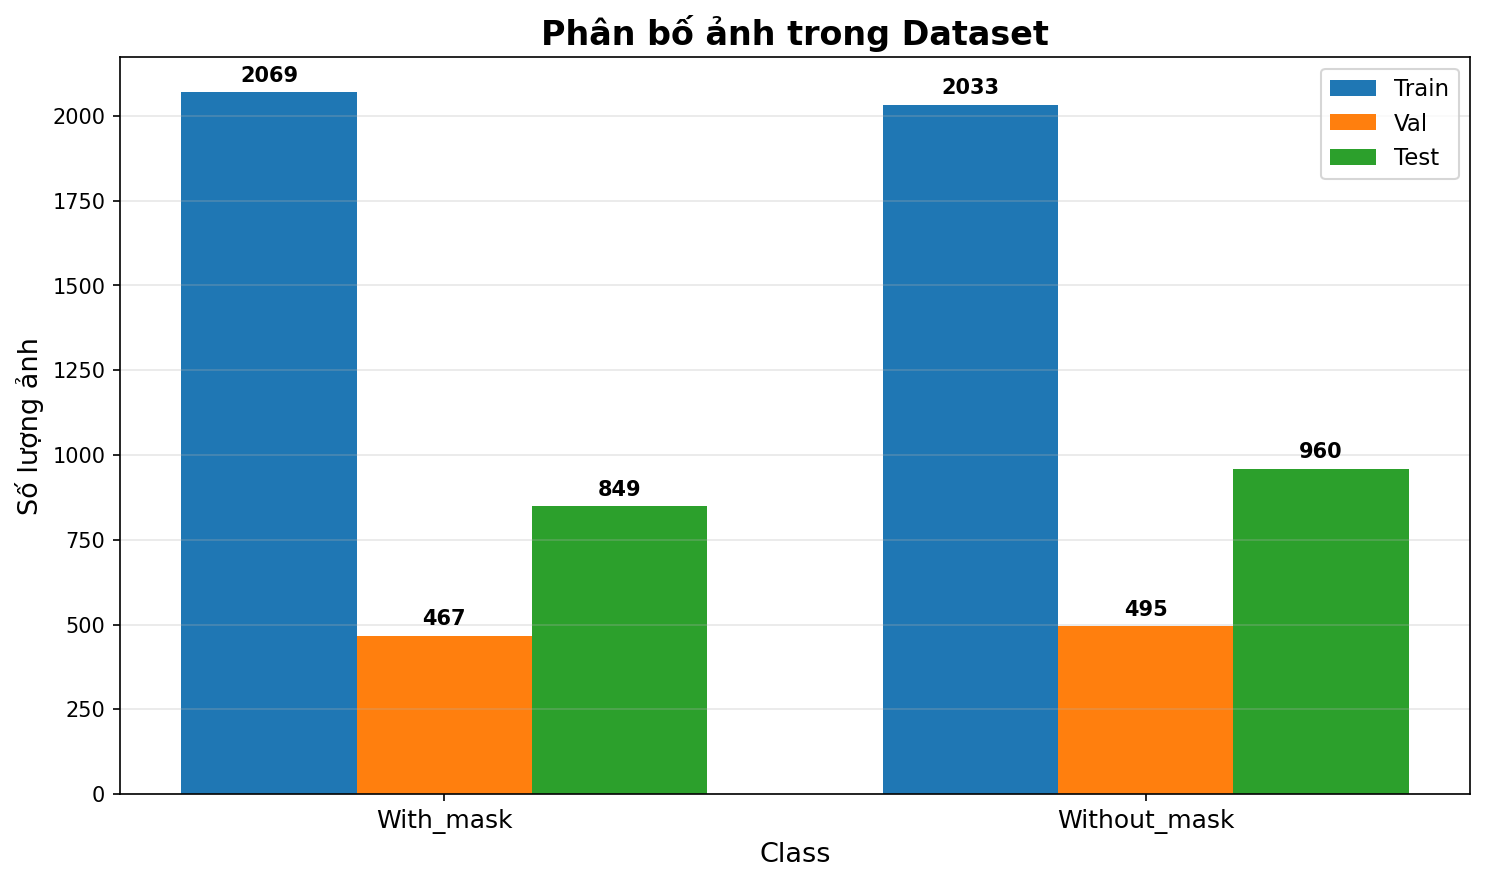
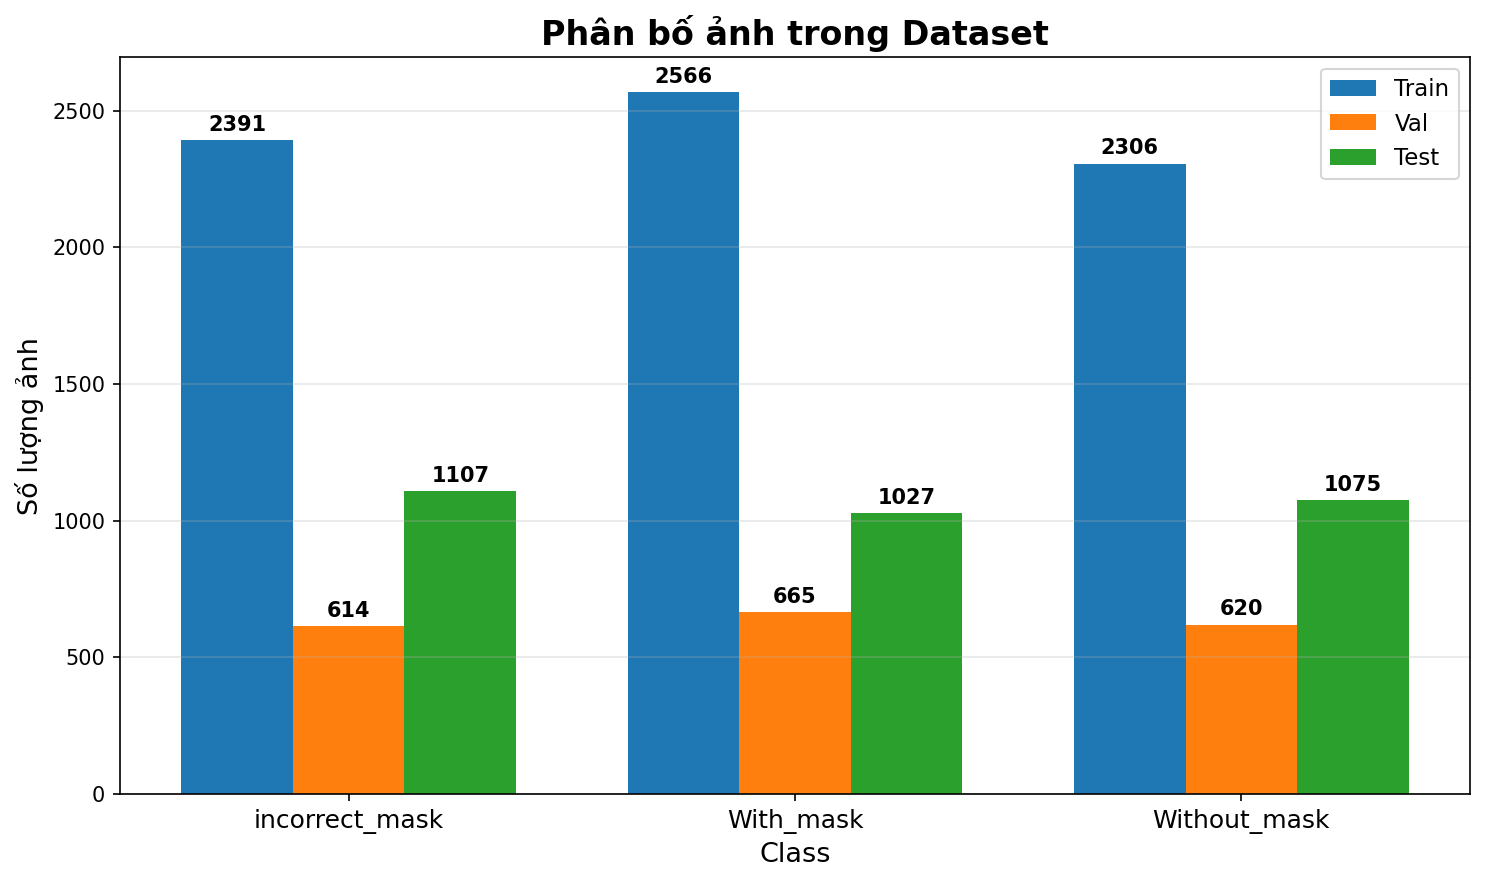
MediaPipe

diff --git a/src/realtime_detect.py b/src/realtime_detect.py
@@ -3,14 +3,17 @@ import sys
 import cv2
 import numpy as np
 from collections import deque
+from keras.models import load_model
 
 sys.path.append(os.path.dirname(os.path.dirname(os.path.abspath(__file__))))
 
 # =========================================================
 # TENSORFLOW
 # =========================================================
-import tensorflow as tf
-from tensorflow.keras.preprocessing.image import img_to_array
+import keras
+from keras.models import load_model
+from keras.preprocessing.image import img_to_array
+import mediapipe as mp
 
 # =========================================================
 # CONFIG
@@ -29,6 +32,7 @@ from src.config import (
     COLOR_MASK,
     COLOR_NO_MASK,
     COLOR_INCORRECT_MASK,
+    DETECTION_CONFIDENCE,
 )
 
 # =========================================================
@@ -87,22 +91,16 @@ def download_haarcascade():
 def init_realtime_resources():
 
     # =====================================================
-    # CASCADE
+    # MEDIAPIPE
     # =====================================================
-    if not download_haarcascade():
-        raise RuntimeError("Missing Haar Cascade")
-
-    face_cascade = cv2.CascadeClassifier(
-        HAARCASCADE_PATH
+    face_cascade = None
+    face_detector = mp.solutions.face_detection.FaceDetection(
+        model_selection=1,
+        min_detection_confidence=DETECTION_CONFIDENCE
     )
+    use_mediapipe = True
 
-    # =====================================================
-    # NO MEDIAPIPE
-    # =====================================================
-    face_detector = None
-    use_mediapipe = False
-
-    print("[OK] Using Haarcascade")
+    print("[OK] Using MediaPipe FaceDetection")
 
     # =====================================================
     # LOAD MODEL
@@ -110,11 +108,10 @@ def init_realtime_resources():
     model = None
 
     model_candidates = [
-        BEST_MODEL_FINAL,
-        BEST_MODEL_PHASE1,
-        BEST_MODEL_FINAL.replace(".keras", ".h5"),
-        BEST_MODEL_PHASE1.replace(".keras", ".h5"),
-    ]
+    BEST_MODEL_FINAL
+]
+    print("MODEL PATH:", BEST_MODEL_FINAL)
+    print("MODEL EXISTS:", os.path.exists(BEST_MODEL_FINAL))
 
     for model_path in model_candidates:
 
@@ -125,10 +122,11 @@ def init_realtime_resources():
 
             print(f"[*] Loading model: {model_path}")
 
-            model = tf.keras.models.load_model(
-                model_path,
-                compile=False
-            )
+            model = keras.saving.load_model(
+            model_path,
+            compile=False,
+            safe_mode=False
+        )
 
             print("[OK] Model loaded")
 
@@ -175,22 +173,55 @@ def process_frame(
     faces = []
 
     # =====================================================
-    # HAARCASCADE DETECT
+    # MEDIAPIPE DETECT
     # =====================================================
-    gray = cv2.cvtColor(
-        frame,
-        cv2.COLOR_BGR2GRAY
-    )
+    if use_mediapipe and face_detector is not None:
+        rgb_frame = cv2.cvtColor(
+            frame,
+            cv2.COLOR_BGR2RGB
+        )
 
-    detected = face_cascade.detectMultiScale(
-        gray,
-        scaleFactor=1.1,
-        minNeighbors=5,
-        minSize=(60, 60)
-    )
+        results = face_detector.process(rgb_frame)
 
-    if len(detected) > 0:
-        faces = list(detected)
+        if results.detections:
+            for detection in results.detections:
+                score = 0.0
+                if detection.score:
+                    score = float(detection.score[0])
+
+                if score < DETECTION_CONFIDENCE:
+                    continue
+
+                bbox = detection.location_data.relative_bounding_box
+                x = int(bbox.xmin * frame.shape[1])
+                y = int(bbox.ymin * frame.shape[0])
+                w = int(bbox.width * frame.shape[1])
+                h = int(bbox.height * frame.shape[0])
+
+                x = max(0, x)
+                y = max(0, y)
+                w = max(1, w)
+                h = max(1, h)
+
+                faces.append((x, y, w, h))
+    else:
+        # =====================================================
+        # HAARCASCADE DETECT
+        # =====================================================
+        gray = cv2.cvtColor(
+            frame,
+            cv2.COLOR_BGR2GRAY
+        )
+
+        detected = face_cascade.detectMultiScale(
+            gray,
+            scaleFactor=1.1,
+            minNeighbors=5,
+            minSize=(60, 60)
+        )
+
+        if len(detected) > 0:
+            faces = list(detected)
 
     # =====================================================
     # SORT FACE
@@ -465,7 +496,9 @@ def generate_frames(
         frame = process_frame(
             frame,
             model,
-            face_cascade
+            face_cascade,
+            use_mediapipe,
+            face_detector
         )
 
         ret, buffer = cv2.imencode(
@@ -523,7 +556,9 @@ def run_realtime():
         frame = process_frame(
             frame,
             model,
-            face_cascade
+            face_cascade,
+            use_mediapipe,
+            face_detector
         )
 
         cv2.imshow(

diff --git a/app.py b/app.py
@@ -3,6 +3,7 @@ import os
 import cv2
 import numpy as np
 import tensorflow as tf
+from keras.models import load_model
 
 from flask import (
     Flask,
@@ -94,10 +95,11 @@ def load_model():
             "Không tìm thấy model."
         )
 
-    model = tf.keras.models.load_model(
-        model_path,
-        compile=False
-    )
+    model = load_model(
+    model_path,
+    compile=False,
+    safe_mode=False
+)
 
     return model
 
